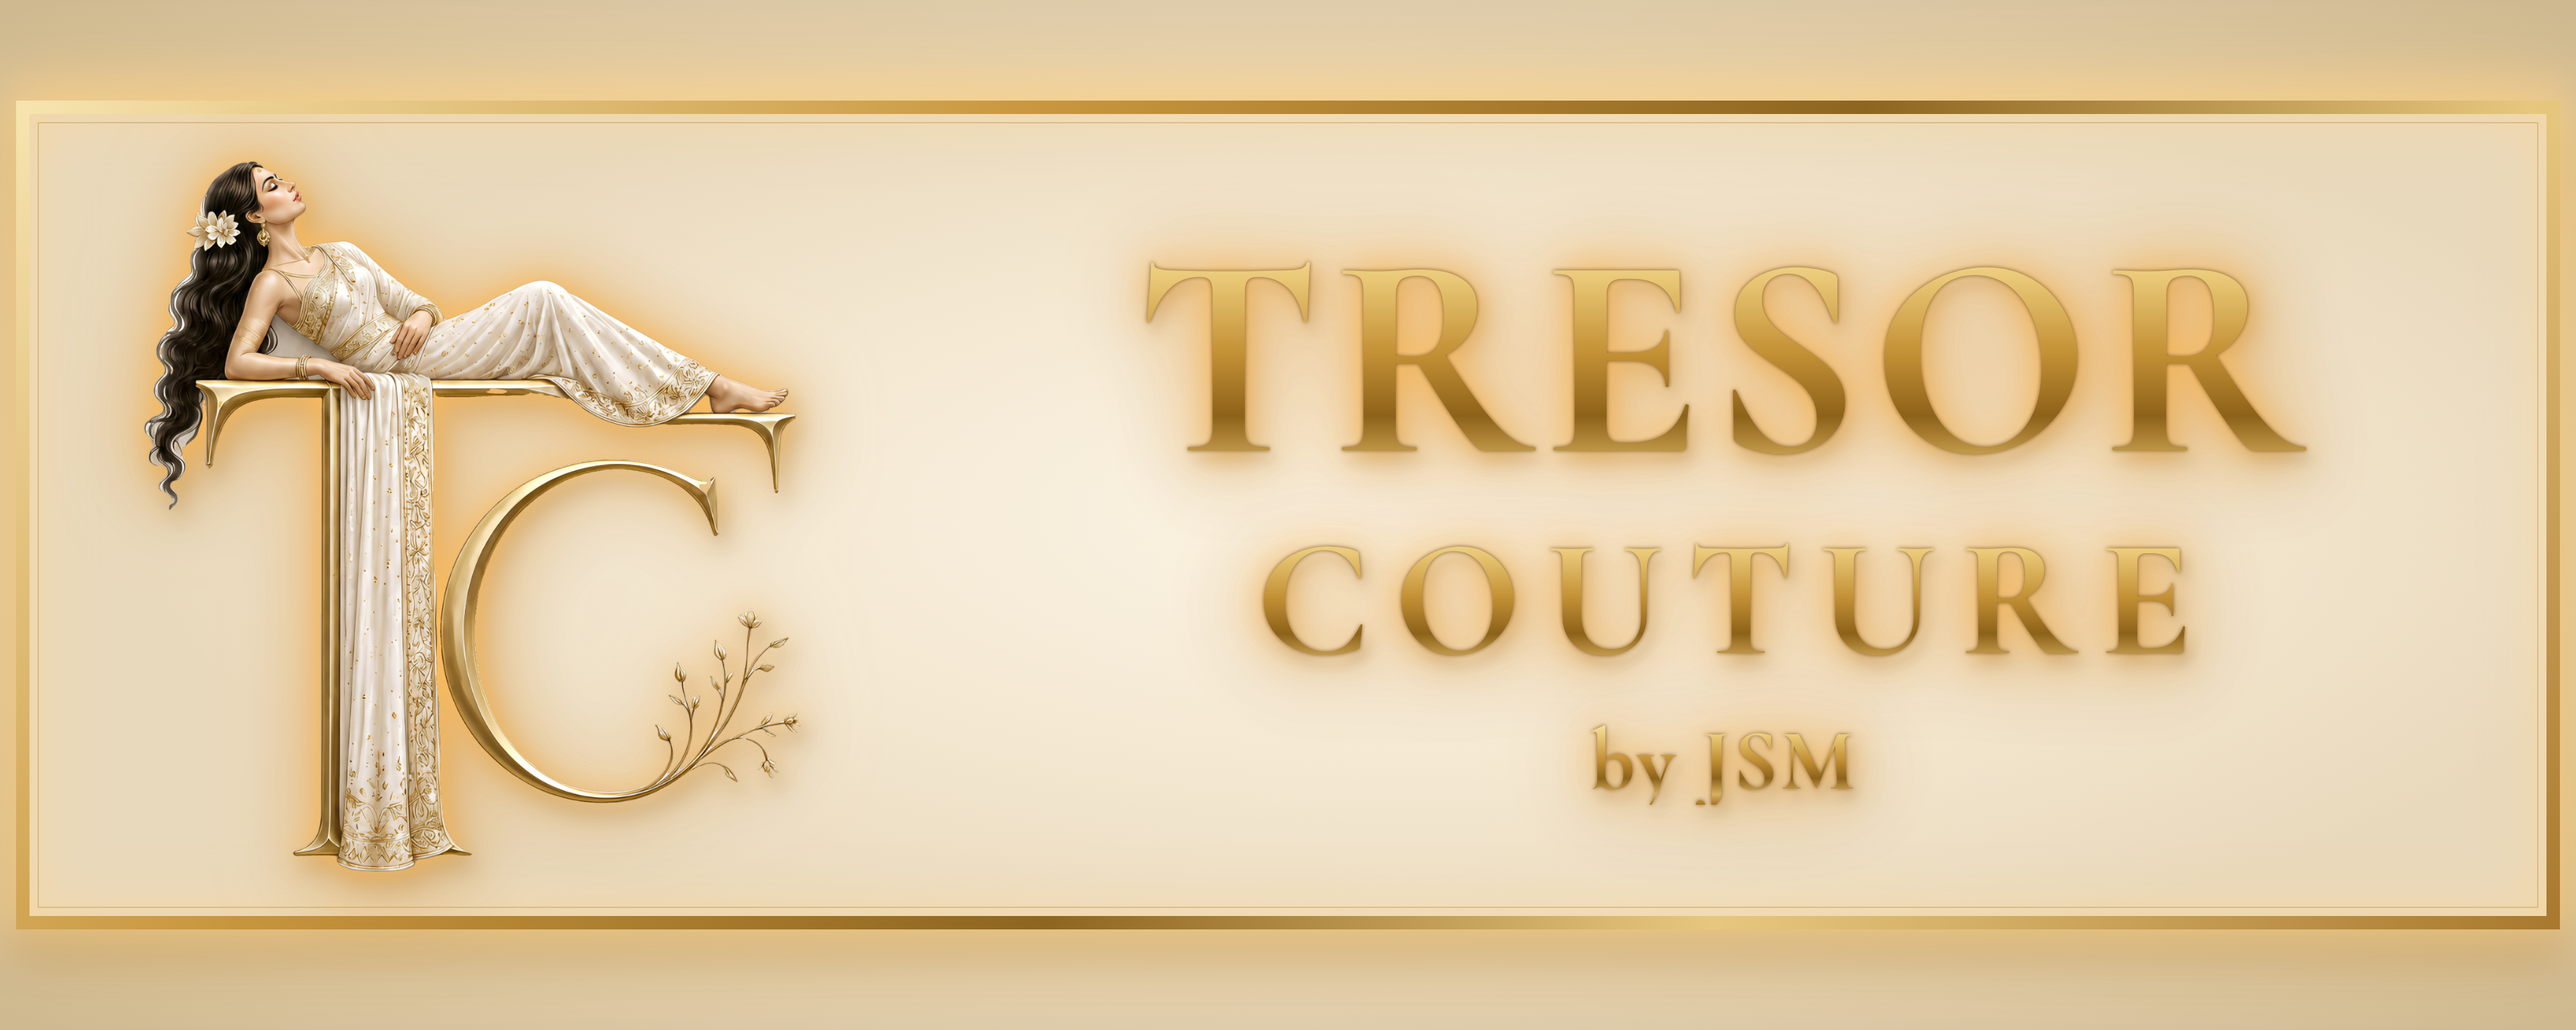
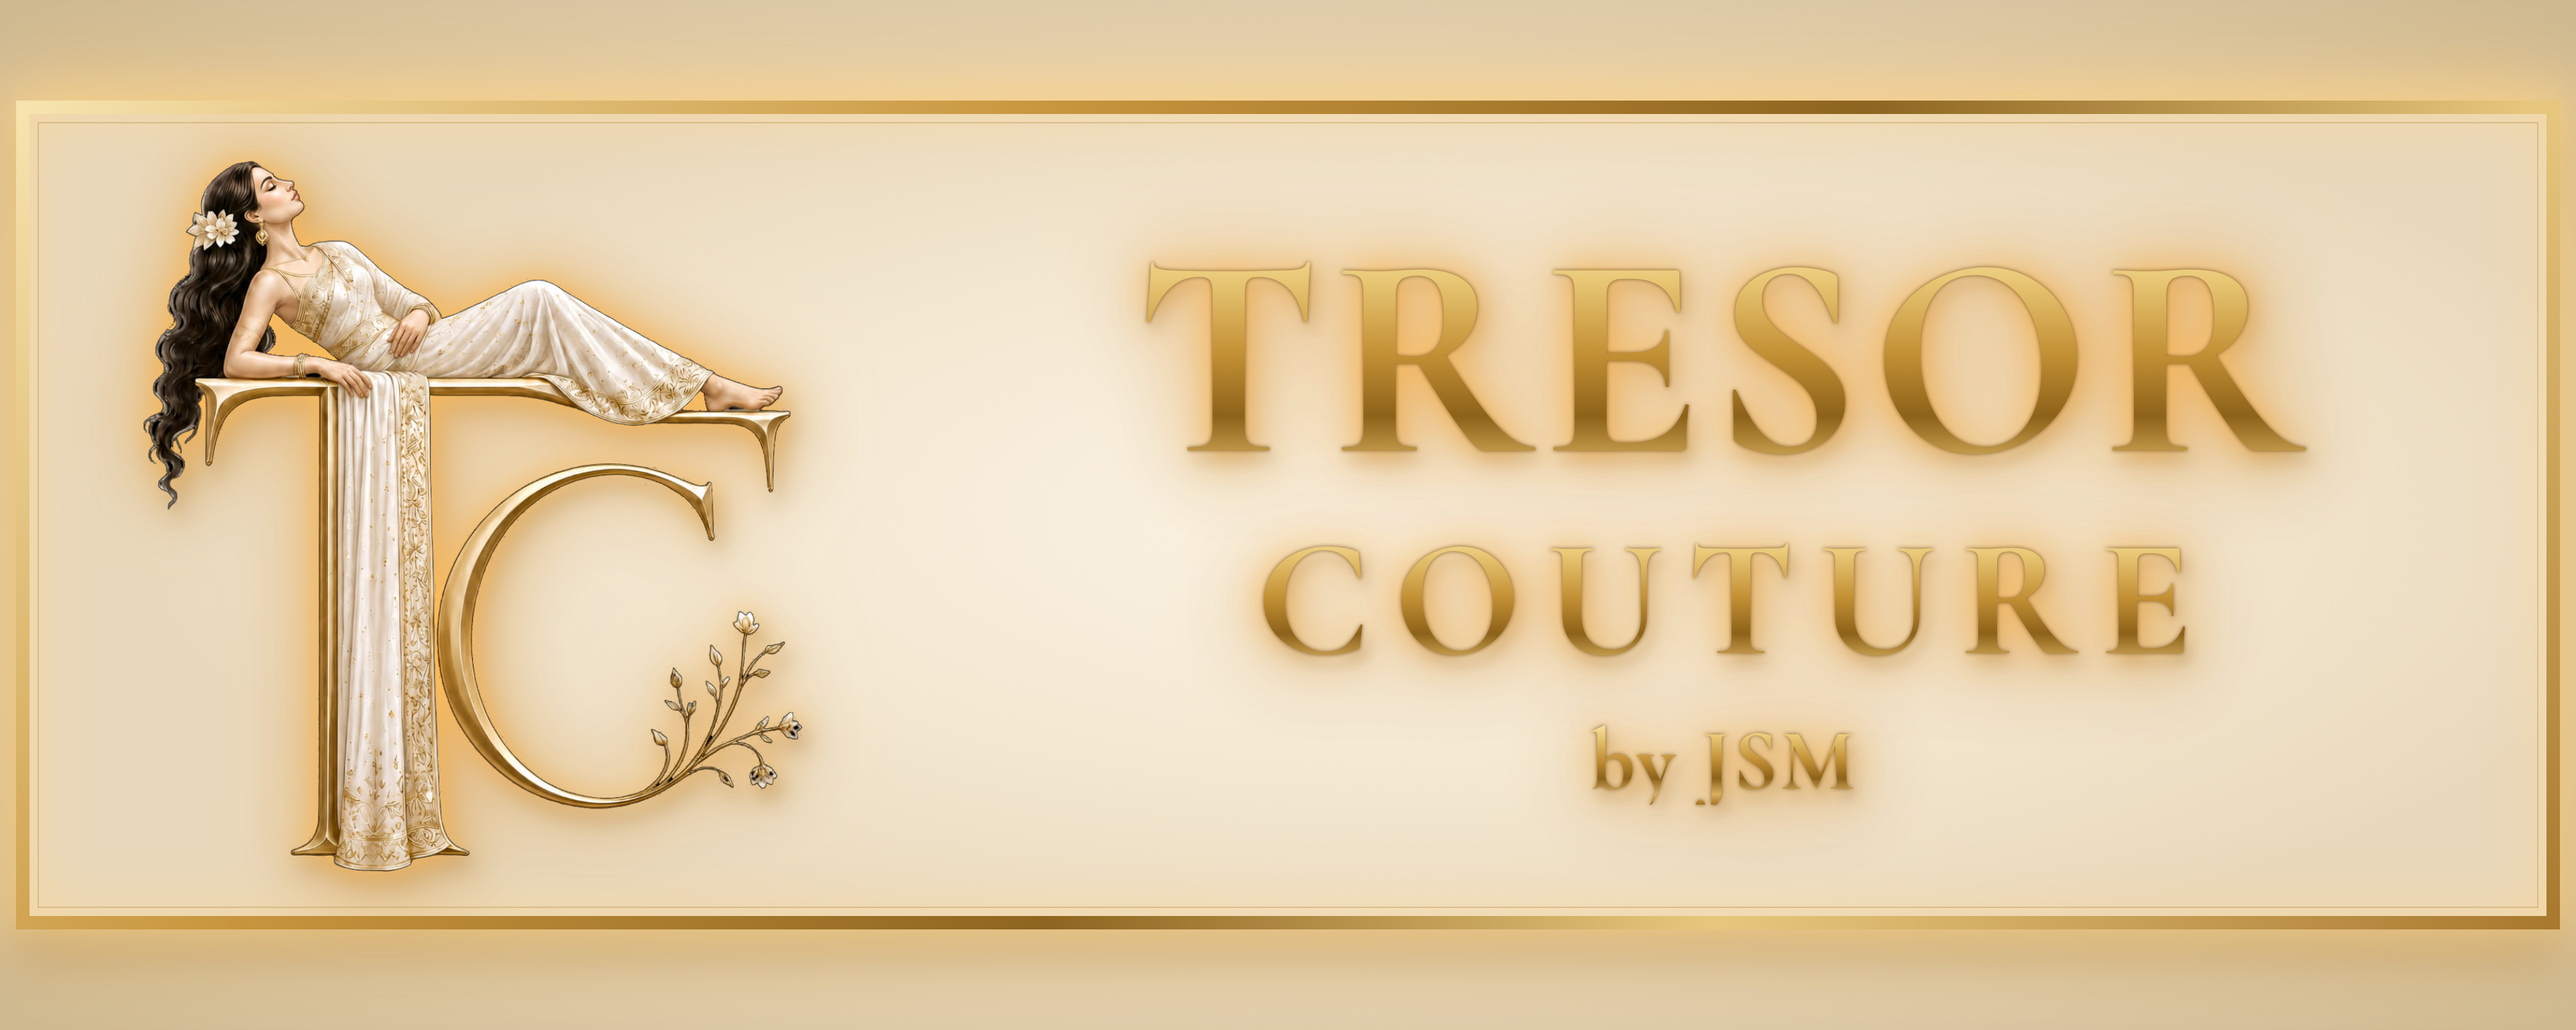
feat(branding): new master TC emblem; LED board and 15x4ft PDF rebuilt with it
branding/master-tc-emblem-v2.png is the client-supplied master, cut out of its
black background (background connected to the edge, plus enclosed pure-black
holes under the arm and by the foot; hair untouched) with edge colours
un-premultiplied so no dark fringe shows on cream. Original kept alongside.
The print PDF embeds a 3x Lanczos copy (80 dpi at 38 in).

Claude-Session: https://claude.ai/code/session_01My6KLU1DLgCf7caV5QxSU3

Changed region(s): [[0.0312, 0.1562, 0.3125, 0.8438]]

diff --git a/branding/posters/signboard_pdf.py b/branding/posters/signboard_pdf.py
@@ -9,7 +9,7 @@ from PIL import Image
 IN = 72.0
 W, H = 180 * IN, 48 * IN            # 15 ft x 4 ft
 out = sys.argv[1] if len(sys.argv) > 1 else 'branding/posters/tresor-couture-signboard-15x4ft.pdf'
-emblem = 'branding/posters/emblem-trim.png'
+emblem = 'branding/posters/emblem-print.png'
 pdfmetrics.registerFont(TTFont('Cormorant-Bold', 'branding/_fonts/Cormorant-Bold.ttf'))
 FONT = 'Cormorant-Bold'
 CREAM, GOLD = HexColor('#F5ECDC'), HexColor('#B8893A')
